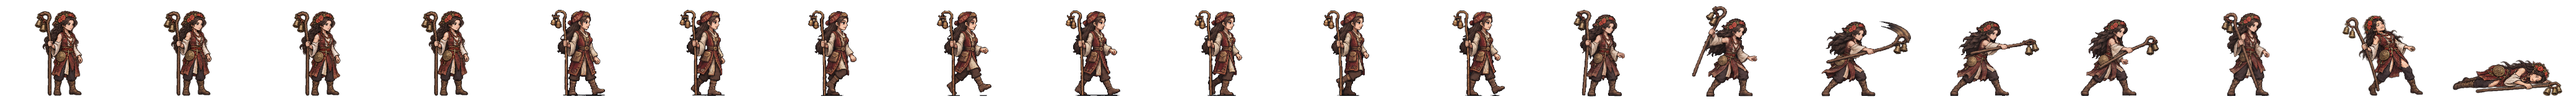
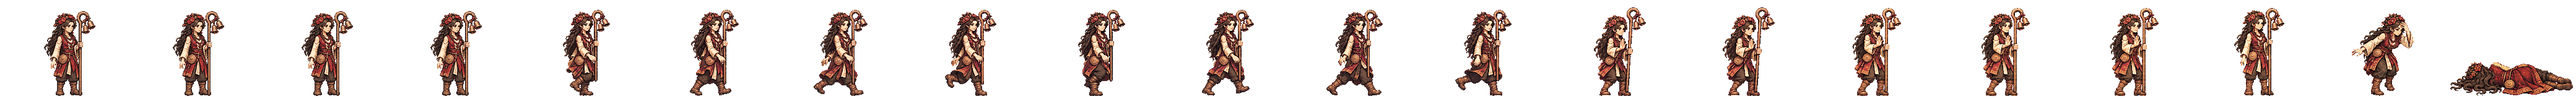
탐라 한라 새 띠: 갈고리 방울 지팡이 걷기·시전·방울 흔들기·맞음·쓰러짐 + 인수인계 「무녀 묶음(밤)」 (걷기 합격)
Claude-Session: https://claude.ai/code/session_01TRiuN7s6aDfSnaHxrkctmU

Changed region(s): [[0.0, 0.0625, 1.0, 0.9688]]

diff --git a/src/realm/data/spritePx.ts b/src/realm/data/spritePx.ts
@@ -1,3 +1,3 @@
 /** public/realm/anim-px/manifest.json 의 사본 — tools/sprite-normalize.mjs 가 만든다 (손으로 고치지 말 것). 칸 [가로, 세로] · feet = 발 줄(칸 위에서 y) · bodyPx = 서 있는 몸 키 */
 import { expandManifest } from './sprite-manifest.ts'
-export const SPRITE_PX: Readonly<Record<string, { readonly cell: readonly [number, number]; readonly feet: number; readonly bodyPx: number; readonly kind: 'general' | 'soldier' | 'folk' | 'crowd'; readonly cells: number }>> = expandManifest<{ readonly cell: readonly [number, number]; readonly feet: number; readonly bodyPx: number; readonly kind: 'general' | 'soldier' | 'folk' | 'crowd'; readonly cells: number }>([{"cell":[166,128],"feet":126,"bodyPx":124,"kind":"soldier","cells":20},{"cell":[116,128],"feet":126,"bodyPx":117,"kind":"soldier","cells":20},{"cell":[127,128],"feet":126,"bodyPx":116,"kind":"soldier","cells":20},{"cell":[269,128],"feet":126,"bodyPx":126,"kind":"soldier","cells":20},{"cell":[503,128],"feet":126,"bodyPx":127,"kind":"soldier","cells":20},{"cell":[614,128],"feet":126,"bodyPx":126,"kind":"soldier","cells":20},{"cell":[200,160],"feet":156,"bodyPx":138,"kind":"general","cells":20},{"cell":[208,160],"feet":155,"bodyPx":138,"kind":"general","cells":20},{"cell":[208,160],"feet":154,"bodyPx":138,"kind":"general","cells":20},{"cell":[304,160],"feet":155,"bodyPx":135,"kind":"general","cells":20},{"cell":[184,160],"feet":156,"bodyPx":138,"kind":"general","cells":20},{"cell":[208,160],"feet":154,"bodyPx":136,"kind":"general","cells":20},{"cell":[232,160],"feet":156,"bodyPx":138,"kind":"general","cells":20},{"cell":[208,160],"feet":156,"bodyPx":138,"kind":"general","cells":20},{"cell":[168,160],"feet":156,"bodyPx":124,"kind":"general","cells":20},{"cell":[216,160],"feet":156,"bodyPx":130,"kind":"general","cells":20},{"cell":[200,160],"feet":156,"bodyPx":116,"kind":"general","cells":20},{"cell":[192,160],"feet":156,"bodyPx":138,"kind":"general","cells":20},{"cell":[208,160],"feet":154,"bodyPx":135,"kind":"general","cells":20},{"cell":[280,160],"feet":156,"bodyPx":138,"kind":"general","cells":20},{"cell":[232,160],"feet":156,"bodyPx":134,"kind":"general","cells":20},{"cell":[144,160],"feet":156,"bodyPx":70,"kind":"general","cells":20},{"cell":[208,160],"feet":156,"bodyPx":70,"kind":"general","cells":20},{"cell":[192,160],"feet":156,"bodyPx":70,"kind":"general","cells":20},{"cell":[240,160],"feet":155,"bodyPx":138,"kind":"general","cells":20},{"cell":[160,160],"feet":156,"bodyPx":135,"kind":"general","cells":20},{"cell":[192,160],"feet":156,"bodyPx":128,"kind":"general","cells":20},{"cell":[224,160],"feet":155,"bodyPx":138,"kind":"general","cells":20},{"cell":[216,160],"feet":156,"bodyPx":138,"kind":"general","cells":20},{"cell":[208,160],"feet":156,"bodyPx":134,"kind":"general","cells":20},{"cell":[208,160],"feet":154,"bodyPx":130,"kind":"general","cells":20},{"cell":[248,160],"feet":156,"bodyPx":138,"kind":"general","cells":20},{"cell":[248,160],"feet":155,"bodyPx":138,"kind":"general","cells":20},{"cell":[192,160],"feet":155,"bodyPx":138,"kind":"general","cells":20},{"cell":[192,160],"feet":156,"bodyPx":124,"kind":"general","cells":20},{"cell":[208,160],"feet":154,"bodyPx":131,"kind":"general","cells":20},{"cell":[256,160],"feet":156,"bodyPx":138,"kind":"general","cells":20},{"cell":[240,160],"feet":156,"bodyPx":138,"kind":"general","cells":20},{"cell":[232,160],"feet":156,"bodyPx":139,"kind":"general","cells":20},{"cell":[232,160],"feet":156,"bodyPx":73,"kind":"general","cells":20},{"cell":[208,160],"feet":154,"bodyPx":137,"kind":"general","cells":20},{"cell":[264,160],"feet":156,"bodyPx":138,"kind":"general","cells":20},{"cell":[224,160],"feet":156,"bodyPx":138,"kind":"general","cells":20},{"cell":[224,160],"feet":156,"bodyPx":128,"kind":"general","cells":20},{"cell":[176,160],"feet":156,"bodyPx":129,"kind":"general","cells":20},{"cell":[208,160],"feet":154,"bodyPx":139,"kind":"general","cells":20},{"cell":[232,160],"feet":155,"bodyPx":138,"kind":"general","cells":20},{"cell":[208,160],"feet":156,"bodyPx":132,"kind":"general","cells":20},{"cell":[184,160],"feet":156,"bodyPx":122,"kind":"general","cells":20},{"cell":[280,160],"feet":155,"bodyPx":133,"kind":"general","cells":20},{"cell":[176,160],"feet":156,"bodyPx":70,"kind":"general","cells":20},{"cell":[186,128],"feet":126,"bodyPx":127,"kind":"soldier","cells":20},{"cell":[298,128],"feet":126,"bodyPx":126,"kind":"soldier","cells":20},{"cell":[82,128],"feet":126,"bodyPx":114,"kind":"folk","cells":8},{"cell":[134,128],"feet":126,"bodyPx":119,"kind":"soldier","cells":20},{"cell":[380,128],"feet":126,"bodyPx":124,"kind":"soldier","cells":20},{"cell":[114,128],"feet":126,"bodyPx":115,"kind":"soldier","cells":20},{"cell":[122,128],"feet":126,"bodyPx":114,"kind":"soldier","cells":20},{"cell":[254,128],"feet":126,"bodyPx":128,"kind":"soldier","cells":20},{"cell":[438,128],"feet":126,"bodyPx":126,"kind":"soldier","cells":20},{"cell":[88,128],"feet":126,"bodyPx":113,"kind":"folk","cells":8},{"cell":[100,128],"feet":126,"bodyPx":115,"kind":"folk","cells":8},{"cell":[108,128],"feet":126,"bodyPx":115,"kind":"folk","cells":8},{"cell":[63,128],"feet":126,"bodyPx":113,"kind":"folk","cells":8},{"cell":[69,96],"feet":96,"bodyPx":96,"kind":"crowd","cells":1},{"cell":[54,96],"feet":96,"bodyPx":96,"kind":"crowd","cells":1},{"cell":[47,96],"feet":96,"bodyPx":96,"kind":"crowd","cells":1},{"cell":[49,96],"feet":96,"bodyPx":96,"kind":"crowd","cells":1},{"cell":[57,96],"feet":96,"bodyPx":96,"kind":"crowd","cells":1},{"cell":[55,96],"feet":96,"bodyPx":96,"kind":"crowd","cells":1},{"cell":[45,96],"feet":96,"bodyPx":96,"kind":"crowd","cells":1},{"cell":[53,96],"feet":96,"bodyPx":96,"kind":"crowd","cells":1},{"cell":[64,96],"feet":96,"bodyPx":96,"kind":"crowd","cells":1},{"cell":[184,160],"feet":156,"bodyPx":124,"kind":"general","cells":20},{"cell":[208,160],"feet":154,"bodyPx":134,"kind":"general","cells":20},{"cell":[224,160],"feet":156,"bodyPx":133,"kind":"general","cells":20},{"cell":[192,160],"feet":156,"bodyPx":135,"kind":"general","cells":20},{"cell":[184,160],"feet":156,"bodyPx":137,"kind":"general","cells":20},{"cell":[176,160],"feet":156,"bodyPx":130,"kind":"general","cells":20},{"cell":[216,160],"feet":156,"bodyPx":134,"kind":"general","cells":20},{"cell":[216,160],"feet":156,"bodyPx":132,"kind":"general","cells":20},{"cell":[288,160],"feet":156,"bodyPx":138,"kind":"general","cells":20},{"cell":[192,160],"feet":156,"bodyPx":118,"kind":"general","cells":20},{"cell":[208,160],"feet":154,"bodyPx":132,"kind":"general","cells":20},{"cell":[208,160],"feet":154,"bodyPx":128,"kind":"general","cells":20},{"cell":[240,160],"feet":156,"bodyPx":128,"kind":"general","cells":20},{"cell":[184,160],"feet":156,"bodyPx":132,"kind":"general","cells":20},{"cell":[208,160],"feet":156,"bodyPx":123,"kind":"general","cells":20},{"cell":[176,160],"feet":156,"bodyPx":116,"kind":"general","cells":20},{"cell":[272,160],"feet":156,"bodyPx":138,"kind":"general","cells":20},{"cell":[176,160],"feet":156,"bodyPx":138,"kind":"general","cells":20},{"cell":[176,160],"feet":156,"bodyPx":122,"kind":"general","cells":20},{"cell":[232,160],"feet":156,"bodyPx":127,"kind":"general","cells":20},{"cell":[184,160],"feet":156,"bodyPx":134,"kind":"general","cells":20},{"cell":[168,160],"feet":156,"bodyPx":138,"kind":"general","cells":20},{"cell":[176,160],"feet":156,"bodyPx":137,"kind":"general","cells":20},{"cell":[184,160],"feet":156,"bodyPx":133,"kind":"general","cells":20}],[["axe",0],["bandit-chief",1],["bandit-club",2],["boat",3],["bow",4],["crossbow",5],["gen-adogan",6],["gen-alpyeong",7],["gen-ara",8],["gen-areum",8],["gen-aryeong",9],["gen-bakdal",8],["gen-baram",8],["gen-bdanbi",10],["gen-beom",11],["gen-beombal",8],["gen-beomi",8],["gen-bira",12],["gen-biryu",13],["gen-budeul",8],["gen-byeol",8],["gen-daemusin",14],["gen-daeso",15],["gen-dallae2",10],["gen-dalli",8],["gen-damul",16],["gen-danbi",8],["gen-dangung",17],["gen-darae",18],["gen-dokmudeom",8],["gen-duman",19],["gen-eomni",8],["gen-eureum",20],["gen-g-bow",21],["gen-g-spear",22],["gen-g-sword",23],["gen-gaennae",8],["gen-gamsil",24],["gen-gaon",25],["gen-geota",13],["gen-geumbawi",10],["gen-geumha",26],["gen-goeun",13],["gen-gom",27],["gen-gomok",13],["gen-gureum",8],["gen-guryema",17],["gen-gwaeyu",12],["gen-haebi",8],["gen-haedal",6],["gen-haesol",8],["gen-halla",7],["gen-heo",8],["gen-hneoul",10],["gen-hogong",28],["gen-hojin",13],["gen-horselord",29],["gen-hwalmi",30],["gen-hyeokgeose",17],["gen-hyeopbo",6],["gen-irang",8],["gen-jibaekho",31],["gen-jinha",32],["gen-jita",33],["gen-jumong",34],["gen-keundol",7],["gen-maehwa",35],["gen-maenun",17],["gen-malgalgi",36],["gen-mari",37],["gen-maro",31],["gen-maryeo",13],["gen-mdallae",38],["gen-mir",6],["gen-mount",39],["gen-mulbeom",40],["gen-mulsae",40],["gen-musoe",28],["gen-noeul",8],["gen-nuri",41],["gen-ocheongan",42],["gen-odi",8],["gen-odogan",6],["gen-ogan",17],["gen-oi",43],["gen-olddaeso",20],["gen-onjo",44],["gen-pidogan",13],["gen-sagong",45],["gen-sdallae",6],["gen-sincheongan",8],["gen-singwigan",28],["gen-sinneoul",8],["gen-sobeol",46],["gen-soebi",6],["gen-soebo",47],["gen-soenun",45],["gen-sogeumbi",40],["gen-songbi",42],["gen-songyang",48],["gen-sori",8],["gen-soseono",49],["gen-suro",17],["gen-tahae",6],["gen-tneoul",8],["gen-w-bow",21],["gen-w-spear",50],["gen-waechief",13],["gen-wan",28],["gen-yeodogan",13],["gen-yucheongan",13],["gen-yusugan",31],["horse",51],["marine",52],["migrant",53],["militia",54],["pike",55],["pirate-captain",56],["pirate-sword",57],["shield",58],["spear",59],["villager-builder",60],["villager-farmer",61],["villager-porter",62],["villager-woman",63],["crowd-b1",64],["crowd-b2",65],["crowd-b3",66],["crowd-b4",67],["crowd-b5",68],["crowd-b6",69],["crowd-f1",64],["crowd-f2",69],["crowd-f3",70],["crowd-f4",71],["crowd-f5",64],["crowd-f6",72],["gen-dalbit",13],["gen-base-g-07-drunk-warrior",17],["gen-base-g-40-anya-adan",13],["gen-base-w-13-young-archer",8],["gen-base-g-03-sea-trader",37],["gen-base-w-10-pirate-captain",45],["gen-base-w-64-miri-dallae",45],["gen-base-g-41-goja-bau",37],["gen-base-g-42-dokro-garam",41],["gen-base-g-09-farmer-conscript",28],["gen-base-w-02-goguryeo-lady",28],["gen-base-w-17-mahan-pearl-diver",8],["gen-base-g-17-saro-isageum",47],["gen-base-g-18-daegaya-king",73],["gen-base-g-35-dabeol-dalgu",13],["gen-base-g-19-sabeol-veteran",28],["gen-base-w-23-usisan-whale-queen",8],["gen-base-g-36-gammun-gamdol",42],["gen-base-g-20-samul-sea-lord",36],["gen-base-g-37-eumjeup-jeup",10],["gen-base-g-38-chopal-palmae",17],["gen-base-w-75-daegaya-soemoe",17],["gen-base-g-45-dabeol-deulgae",10],["gen-base-g-04-jinhan-giant",13],["gen-base-g-08-veteran",13],["gen-base-w-18-jinhan-salt-widow",8],["gen-base-w-12-court-dancer",74],["gen-base-w-83-gyeonji-beodeul",75],["gen-base-w-05-baekje-queen",76],["gen-base-w-21-baekje-court-dancer",10],["gen-base-g-01-master-smith",77],["gen-base-g-93-jomun-solgae",78],["gen-base-g-57-bihwa-neup",37],["gen-base-w-72-eumjeup-beol",8],["gen-base-w-102-garak-dana",45],["gen-base-g-68-baekje-onnuri",13],["gen-base-w-27-mokji-jinha",6],["gen-base-g-22-ungcheon-gomnae",6],["gen-base-g-23-sangdang-soedal",13],["gen-base-g-24-wansan-onsan",6],["gen-base-g-25-balla-keunmoe",28],["gen-base-g-61-heomcheuk-bawi",28],["gen-base-g-88-wander-soeul",42],["gen-base-w-14-feast-spy",8],["gen-base-g-12-silla-youth",79],["gen-base-w-08-mahan-warrior",8],["gen-base-g-62-beonye-hanul",37],["gen-base-g-63-heomcheuk-beogeum",13],["gen-base-g-84-wander-seoneul",13],["gen-base-w-50-siljik-mulga",28],["gen-base-g-46-uga-nureongso",28],["gen-base-w-80-usan-gangchi",45],["gen-base-g-47-guga-sanyanggae",28],["gen-base-w-76-gampyeong-baetsagong",8],["gen-base-g-05-mahan-chieftain",80],["gen-base-g-58-usan-uhae",13],["gen-base-g-27-maek-maekdol",13],["gen-base-w-53-hwanna-gabi",45],["gen-base-w-29-golpo-janmul",31],["gen-base-g-53-baekje-haeru",6],["gen-base-w-71-yeonna-neoul",8],["gen-base-w-79-yangmaek-solmae",8],["gen-base-w-34-chopal-deulme",8],["gen-base-g-44-maga-malgup",81],["gen-base-w-31-dabeol-dalbit",45],["gen-base-g-51-biryuna-mulgyeol",42],["gen-base-g-48-gwanna-musoe",13],["gen-base-g-32-uga-sodu",12],["gen-base-g-49-goguryeo-sona",82],["gen-base-g-30-gwanna-soemoe",42],["gen-base-g-52-tamna-oreum",10],["gen-base-g-29-yeonna-myeongsol",34],["gen-base-w-56-dongokjeo-sogeum",74],["gen-base-g-54-mokji-mahan",12],["gen-base-g-33-jeoga-metdol",17],["gen-base-w-36-baekje-maena",8],["gen-base-w-38-sangdang-bulmae",6],["gen-base-w-39-gosaburi-galmae",8],["gen-base-w-40-mujin-munui",83],["gen-base-w-41-hwanna-beodeul",84],["gen-base-w-43-uga-nuri",36],["gen-base-w-45-tamna-oreumbi",10],["gen-base-g-60-golbeol-golgae",10],["gen-base-g-61-apdok-ap",28],["gen-base-g-62-gammun-gamnamu",6],["gen-base-g-63-chopal-yeoul",31],["gen-base-g-64-michuhol-sogeumkkun",37],["gen-base-g-65-sangdang-soemangchi",42],["gen-base-g-66-geonma-malbalgup",85],["gen-base-g-67-gosaburi-buri",86],["gen-base-g-68-mujin-bitgoeul",10],["gen-base-g-69-goryong-yong",42],["gen-base-g-70-siljik-pado",37],["gen-base-w-81-byeokjin-byeolbit",8],["gen-base-w-46-geonma-maru",8],["gen-base-w-48-mujin-mudeung",8],["gen-base-g-26-gampyeong-gaetbeol",12],["gen-base-g-60-eupcha-hangyeol",87],["gen-base-g-15-shaman-man",28],["gen-base-g-85-wander-ure",31],["gen-base-g-43-hwanna-amnok",13],["gen-base-g-50-bullae-gwaha",76],["gen-base-g-55-saro-bakdal",13],["gen-base-g-56-haseulla-gwahama",6],["gen-base-w-06-buyeo-huntress",40],["gen-base-w-22-dongye-tiger-huntress",8],["gen-base-w-25-bihwa-priestess",8],["gen-base-w-24-apdok-queen",10],["gen-base-w-61-iseo-sinae",13],["gen-base-w-26-iseo-tomboy-general",8],["gen-base-g-59-yangmaek-maekson",88],["gen-aw1-haebi",42],["gen-aw1-soseono",89],["gen-aw1-gamsil",10],["gen-aw1-mir",90],["gen-aw1-dangung",6],["gen-aw1-ara",42],["gen-aw1-jumong",91],["gen-aw1-onjo",92],["gen-aw1-base-w-83-gyeonji-beodeul",17],["gen-aw1-heo",41],["gen-aw1-base-g-38-chopal-palmae",6],["gen-aw1-base-w-25-bihwa-priestess",93],["gen-aw1-sori",94],["gen-aw1-gomok",6],["gen-aw1-irang",17],["gen-aw1-budeul",94],["gen-aw1-gom",37],["gen-aw1-sdallae",6],["gen-aw1-base-w-13-young-archer",6],["gen-aw1-base-w-36-baekje-maena",95],["gen-aw1-base-g-09-farmer-conscript",41],["gen-aw1-base-w-02-goguryeo-lady",96],["gen-aw1-haedal",10],["gen-aw1-hogong",6],["gen-aw1-maehwa",90],["gen-aw1-base-w-06-buyeo-huntress",12],["gen-aw1-base-w-08-mahan-warrior",42],["gen-aw1-base-w-29-golpo-janmul",42],["gen-aw1-base-w-31-dabeol-dalbit",17],["gen-aw1-base-w-38-sangdang-bulmae",94],["gen-aw1-bira",28],["gen-aw1-base-w-53-hwanna-gabi",94],["gen-aw1-base-w-56-dongokjeo-sogeum",90],["gen-aw1-base-w-72-eumjeup-beol",17],["gen-aw1-bdanbi",94],["gen-aw1-beom",10],["gen-aw1-beombal",10],["gen-aw1-byeol",17],["gen-aw1-dalli",90],["gen-aw1-malgalgi",31],["gen-aw1-sincheongan",28]])
+export const SPRITE_PX: Readonly<Record<string, { readonly cell: readonly [number, number]; readonly feet: number; readonly bodyPx: number; readonly kind: 'general' | 'soldier' | 'folk' | 'crowd'; readonly cells: number }>> = expandManifest<{ readonly cell: readonly [number, number]; readonly feet: number; readonly bodyPx: number; readonly kind: 'general' | 'soldier' | 'folk' | 'crowd'; readonly cells: number }>([{"cell":[166,128],"feet":126,"bodyPx":124,"kind":"soldier","cells":20},{"cell":[116,128],"feet":126,"bodyPx":117,"kind":"soldier","cells":20},{"cell":[127,128],"feet":126,"bodyPx":116,"kind":"soldier","cells":20},{"cell":[269,128],"feet":126,"bodyPx":126,"kind":"soldier","cells":20},{"cell":[503,128],"feet":126,"bodyPx":127,"kind":"soldier","cells":20},{"cell":[614,128],"feet":126,"bodyPx":126,"kind":"soldier","cells":20},{"cell":[200,160],"feet":156,"bodyPx":138,"kind":"general","cells":20},{"cell":[208,160],"feet":155,"bodyPx":138,"kind":"general","cells":20},{"cell":[208,160],"feet":154,"bodyPx":138,"kind":"general","cells":20},{"cell":[304,160],"feet":155,"bodyPx":135,"kind":"general","cells":20},{"cell":[184,160],"feet":156,"bodyPx":138,"kind":"general","cells":20},{"cell":[208,160],"feet":154,"bodyPx":136,"kind":"general","cells":20},{"cell":[232,160],"feet":156,"bodyPx":138,"kind":"general","cells":20},{"cell":[208,160],"feet":156,"bodyPx":138,"kind":"general","cells":20},{"cell":[168,160],"feet":156,"bodyPx":124,"kind":"general","cells":20},{"cell":[216,160],"feet":156,"bodyPx":130,"kind":"general","cells":20},{"cell":[200,160],"feet":156,"bodyPx":116,"kind":"general","cells":20},{"cell":[192,160],"feet":156,"bodyPx":138,"kind":"general","cells":20},{"cell":[208,160],"feet":154,"bodyPx":135,"kind":"general","cells":20},{"cell":[280,160],"feet":156,"bodyPx":138,"kind":"general","cells":20},{"cell":[232,160],"feet":156,"bodyPx":134,"kind":"general","cells":20},{"cell":[144,160],"feet":156,"bodyPx":70,"kind":"general","cells":20},{"cell":[208,160],"feet":156,"bodyPx":70,"kind":"general","cells":20},{"cell":[192,160],"feet":156,"bodyPx":70,"kind":"general","cells":20},{"cell":[240,160],"feet":155,"bodyPx":138,"kind":"general","cells":20},{"cell":[160,160],"feet":156,"bodyPx":135,"kind":"general","cells":20},{"cell":[192,160],"feet":156,"bodyPx":128,"kind":"general","cells":20},{"cell":[224,160],"feet":155,"bodyPx":138,"kind":"general","cells":20},{"cell":[208,160],"feet":154,"bodyPx":137,"kind":"general","cells":20},{"cell":[216,160],"feet":156,"bodyPx":138,"kind":"general","cells":20},{"cell":[208,160],"feet":156,"bodyPx":134,"kind":"general","cells":20},{"cell":[208,160],"feet":154,"bodyPx":130,"kind":"general","cells":20},{"cell":[248,160],"feet":156,"bodyPx":138,"kind":"general","cells":20},{"cell":[248,160],"feet":155,"bodyPx":138,"kind":"general","cells":20},{"cell":[192,160],"feet":155,"bodyPx":138,"kind":"general","cells":20},{"cell":[192,160],"feet":156,"bodyPx":124,"kind":"general","cells":20},{"cell":[208,160],"feet":154,"bodyPx":131,"kind":"general","cells":20},{"cell":[256,160],"feet":156,"bodyPx":138,"kind":"general","cells":20},{"cell":[240,160],"feet":156,"bodyPx":138,"kind":"general","cells":20},{"cell":[232,160],"feet":156,"bodyPx":139,"kind":"general","cells":20},{"cell":[232,160],"feet":156,"bodyPx":73,"kind":"general","cells":20},{"cell":[264,160],"feet":156,"bodyPx":138,"kind":"general","cells":20},{"cell":[224,160],"feet":156,"bodyPx":138,"kind":"general","cells":20},{"cell":[224,160],"feet":156,"bodyPx":128,"kind":"general","cells":20},{"cell":[176,160],"feet":156,"bodyPx":129,"kind":"general","cells":20},{"cell":[208,160],"feet":154,"bodyPx":139,"kind":"general","cells":20},{"cell":[232,160],"feet":155,"bodyPx":138,"kind":"general","cells":20},{"cell":[208,160],"feet":156,"bodyPx":132,"kind":"general","cells":20},{"cell":[184,160],"feet":156,"bodyPx":122,"kind":"general","cells":20},{"cell":[280,160],"feet":155,"bodyPx":133,"kind":"general","cells":20},{"cell":[176,160],"feet":156,"bodyPx":70,"kind":"general","cells":20},{"cell":[186,128],"feet":126,"bodyPx":127,"kind":"soldier","cells":20},{"cell":[298,128],"feet":126,"bodyPx":126,"kind":"soldier","cells":20},{"cell":[82,128],"feet":126,"bodyPx":114,"kind":"folk","cells":8},{"cell":[134,128],"feet":126,"bodyPx":119,"kind":"soldier","cells":20},{"cell":[380,128],"feet":126,"bodyPx":124,"kind":"soldier","cells":20},{"cell":[114,128],"feet":126,"bodyPx":115,"kind":"soldier","cells":20},{"cell":[122,128],"feet":126,"bodyPx":114,"kind":"soldier","cells":20},{"cell":[254,128],"feet":126,"bodyPx":128,"kind":"soldier","cells":20},{"cell":[438,128],"feet":126,"bodyPx":126,"kind":"soldier","cells":20},{"cell":[88,128],"feet":126,"bodyPx":113,"kind":"folk","cells":8},{"cell":[100,128],"feet":126,"bodyPx":115,"kind":"folk","cells":8},{"cell":[108,128],"feet":126,"bodyPx":115,"kind":"folk","cells":8},{"cell":[63,128],"feet":126,"bodyPx":113,"kind":"folk","cells":8},{"cell":[69,96],"feet":96,"bodyPx":96,"kind":"crowd","cells":1},{"cell":[54,96],"feet":96,"bodyPx":96,"kind":"crowd","cells":1},{"cell":[47,96],"feet":96,"bodyPx":96,"kind":"crowd","cells":1},{"cell":[49,96],"feet":96,"bodyPx":96,"kind":"crowd","cells":1},{"cell":[57,96],"feet":96,"bodyPx":96,"kind":"crowd","cells":1},{"cell":[55,96],"feet":96,"bodyPx":96,"kind":"crowd","cells":1},{"cell":[45,96],"feet":96,"bodyPx":96,"kind":"crowd","cells":1},{"cell":[53,96],"feet":96,"bodyPx":96,"kind":"crowd","cells":1},{"cell":[64,96],"feet":96,"bodyPx":96,"kind":"crowd","cells":1},{"cell":[184,160],"feet":156,"bodyPx":124,"kind":"general","cells":20},{"cell":[208,160],"feet":154,"bodyPx":134,"kind":"general","cells":20},{"cell":[224,160],"feet":156,"bodyPx":133,"kind":"general","cells":20},{"cell":[192,160],"feet":156,"bodyPx":135,"kind":"general","cells":20},{"cell":[184,160],"feet":156,"bodyPx":137,"kind":"general","cells":20},{"cell":[176,160],"feet":156,"bodyPx":130,"kind":"general","cells":20},{"cell":[216,160],"feet":156,"bodyPx":134,"kind":"general","cells":20},{"cell":[216,160],"feet":156,"bodyPx":132,"kind":"general","cells":20},{"cell":[288,160],"feet":156,"bodyPx":138,"kind":"general","cells":20},{"cell":[192,160],"feet":156,"bodyPx":118,"kind":"general","cells":20},{"cell":[208,160],"feet":154,"bodyPx":132,"kind":"general","cells":20},{"cell":[208,160],"feet":154,"bodyPx":128,"kind":"general","cells":20},{"cell":[240,160],"feet":156,"bodyPx":128,"kind":"general","cells":20},{"cell":[184,160],"feet":156,"bodyPx":132,"kind":"general","cells":20},{"cell":[208,160],"feet":156,"bodyPx":123,"kind":"general","cells":20},{"cell":[176,160],"feet":156,"bodyPx":116,"kind":"general","cells":20},{"cell":[272,160],"feet":156,"bodyPx":138,"kind":"general","cells":20},{"cell":[176,160],"feet":156,"bodyPx":138,"kind":"general","cells":20},{"cell":[176,160],"feet":156,"bodyPx":122,"kind":"general","cells":20},{"cell":[232,160],"feet":156,"bodyPx":127,"kind":"general","cells":20},{"cell":[184,160],"feet":156,"bodyPx":134,"kind":"general","cells":20},{"cell":[168,160],"feet":156,"bodyPx":138,"kind":"general","cells":20},{"cell":[176,160],"feet":156,"bodyPx":137,"kind":"general","cells":20},{"cell":[184,160],"feet":156,"bodyPx":133,"kind":"general","cells":20}],[["axe",0],["bandit-chief",1],["bandit-club",2],["boat",3],["bow",4],["crossbow",5],["gen-adogan",6],["gen-alpyeong",7],["gen-ara",8],["gen-areum",8],["gen-aryeong",9],["gen-bakdal",8],["gen-baram",8],["gen-bdanbi",10],["gen-beom",11],["gen-beombal",8],["gen-beomi",8],["gen-bira",12],["gen-biryu",13],["gen-budeul",8],["gen-byeol",8],["gen-daemusin",14],["gen-daeso",15],["gen-dallae2",10],["gen-dalli",8],["gen-damul",16],["gen-danbi",8],["gen-dangung",17],["gen-darae",18],["gen-dokmudeom",8],["gen-duman",19],["gen-eomni",8],["gen-eureum",20],["gen-g-bow",21],["gen-g-spear",22],["gen-g-sword",23],["gen-gaennae",8],["gen-gamsil",24],["gen-gaon",25],["gen-geota",13],["gen-geumbawi",10],["gen-geumha",26],["gen-goeun",13],["gen-gom",27],["gen-gomok",13],["gen-gureum",8],["gen-guryema",17],["gen-gwaeyu",12],["gen-haebi",8],["gen-haedal",6],["gen-haesol",8],["gen-halla",28],["gen-heo",8],["gen-hneoul",10],["gen-hogong",29],["gen-hojin",13],["gen-horselord",30],["gen-hwalmi",31],["gen-hyeokgeose",17],["gen-hyeopbo",6],["gen-irang",8],["gen-jibaekho",32],["gen-jinha",33],["gen-jita",34],["gen-jumong",35],["gen-keundol",7],["gen-maehwa",36],["gen-maenun",17],["gen-malgalgi",37],["gen-mari",38],["gen-maro",32],["gen-maryeo",13],["gen-mdallae",39],["gen-mir",6],["gen-mount",40],["gen-mulbeom",28],["gen-mulsae",28],["gen-musoe",29],["gen-noeul",8],["gen-nuri",41],["gen-ocheongan",42],["gen-odi",8],["gen-odogan",6],["gen-ogan",17],["gen-oi",43],["gen-olddaeso",20],["gen-onjo",44],["gen-pidogan",13],["gen-sagong",45],["gen-sdallae",6],["gen-sincheongan",8],["gen-singwigan",29],["gen-sinneoul",8],["gen-sobeol",46],["gen-soebi",6],["gen-soebo",47],["gen-soenun",45],["gen-sogeumbi",28],["gen-songbi",42],["gen-songyang",48],["gen-sori",8],["gen-soseono",49],["gen-suro",17],["gen-tahae",6],["gen-tneoul",8],["gen-w-bow",21],["gen-w-spear",50],["gen-waechief",13],["gen-wan",29],["gen-yeodogan",13],["gen-yucheongan",13],["gen-yusugan",32],["horse",51],["marine",52],["migrant",53],["militia",54],["pike",55],["pirate-captain",56],["pirate-sword",57],["shield",58],["spear",59],["villager-builder",60],["villager-farmer",61],["villager-porter",62],["villager-woman",63],["crowd-b1",64],["crowd-b2",65],["crowd-b3",66],["crowd-b4",67],["crowd-b5",68],["crowd-b6",69],["crowd-f1",64],["crowd-f2",69],["crowd-f3",70],["crowd-f4",71],["crowd-f5",64],["crowd-f6",72],["gen-dalbit",13],["gen-base-g-07-drunk-warrior",17],["gen-base-g-40-anya-adan",13],["gen-base-w-13-young-archer",8],["gen-base-g-03-sea-trader",38],["gen-base-w-10-pirate-captain",45],["gen-base-w-64-miri-dallae",45],["gen-base-g-41-goja-bau",38],["gen-base-g-42-dokro-garam",41],["gen-base-g-09-farmer-conscript",29],["gen-base-w-02-goguryeo-lady",29],["gen-base-w-17-mahan-pearl-diver",8],["gen-base-g-17-saro-isageum",47],["gen-base-g-18-daegaya-king",73],["gen-base-g-35-dabeol-dalgu",13],["gen-base-g-19-sabeol-veteran",29],["gen-base-w-23-usisan-whale-queen",8],["gen-base-g-36-gammun-gamdol",42],["gen-base-g-20-samul-sea-lord",37],["gen-base-g-37-eumjeup-jeup",10],["gen-base-g-38-chopal-palmae",17],["gen-base-w-75-daegaya-soemoe",17],["gen-base-g-45-dabeol-deulgae",10],["gen-base-g-04-jinhan-giant",13],["gen-base-g-08-veteran",13],["gen-base-w-18-jinhan-salt-widow",8],["gen-base-w-12-court-dancer",74],["gen-base-w-83-gyeonji-beodeul",75],["gen-base-w-05-baekje-queen",76],["gen-base-w-21-baekje-court-dancer",10],["gen-base-g-01-master-smith",77],["gen-base-g-93-jomun-solgae",78],["gen-base-g-57-bihwa-neup",38],["gen-base-w-72-eumjeup-beol",8],["gen-base-w-102-garak-dana",45],["gen-base-g-68-baekje-onnuri",13],["gen-base-w-27-mokji-jinha",6],["gen-base-g-22-ungcheon-gomnae",6],["gen-base-g-23-sangdang-soedal",13],["gen-base-g-24-wansan-onsan",6],["gen-base-g-25-balla-keunmoe",29],["gen-base-g-61-heomcheuk-bawi",29],["gen-base-g-88-wander-soeul",42],["gen-base-w-14-feast-spy",8],["gen-base-g-12-silla-youth",79],["gen-base-w-08-mahan-warrior",8],["gen-base-g-62-beonye-hanul",38],["gen-base-g-63-heomcheuk-beogeum",13],["gen-base-g-84-wander-seoneul",13],["gen-base-w-50-siljik-mulga",29],["gen-base-g-46-uga-nureongso",29],["gen-base-w-80-usan-gangchi",45],["gen-base-g-47-guga-sanyanggae",29],["gen-base-w-76-gampyeong-baetsagong",8],["gen-base-g-05-mahan-chieftain",80],["gen-base-g-58-usan-uhae",13],["gen-base-g-27-maek-maekdol",13],["gen-base-w-53-hwanna-gabi",45],["gen-base-w-29-golpo-janmul",32],["gen-base-g-53-baekje-haeru",6],["gen-base-w-71-yeonna-neoul",8],["gen-base-w-79-yangmaek-solmae",8],["gen-base-w-34-chopal-deulme",8],["gen-base-g-44-maga-malgup",81],["gen-base-w-31-dabeol-dalbit",45],["gen-base-g-51-biryuna-mulgyeol",42],["gen-base-g-48-gwanna-musoe",13],["gen-base-g-32-uga-sodu",12],["gen-base-g-49-goguryeo-sona",82],["gen-base-g-30-gwanna-soemoe",42],["gen-base-g-52-tamna-oreum",10],["gen-base-g-29-yeonna-myeongsol",35],["gen-base-w-56-dongokjeo-sogeum",74],["gen-base-g-54-mokji-mahan",12],["gen-base-g-33-jeoga-metdol",17],["gen-base-w-36-baekje-maena",8],["gen-base-w-38-sangdang-bulmae",6],["gen-base-w-39-gosaburi-galmae",8],["gen-base-w-40-mujin-munui",83],["gen-base-w-41-hwanna-beodeul",84],["gen-base-w-43-uga-nuri",37],["gen-base-w-45-tamna-oreumbi",10],["gen-base-g-60-golbeol-golgae",10],["gen-base-g-61-apdok-ap",29],["gen-base-g-62-gammun-gamnamu",6],["gen-base-g-63-chopal-yeoul",32],["gen-base-g-64-michuhol-sogeumkkun",38],["gen-base-g-65-sangdang-soemangchi",42],["gen-base-g-66-geonma-malbalgup",85],["gen-base-g-67-gosaburi-buri",86],["gen-base-g-68-mujin-bitgoeul",10],["gen-base-g-69-goryong-yong",42],["gen-base-g-70-siljik-pado",38],["gen-base-w-81-byeokjin-byeolbit",8],["gen-base-w-46-geonma-maru",8],["gen-base-w-48-mujin-mudeung",8],["gen-base-g-26-gampyeong-gaetbeol",12],["gen-base-g-60-eupcha-hangyeol",87],["gen-base-g-15-shaman-man",29],["gen-base-g-85-wander-ure",32],["gen-base-g-43-hwanna-amnok",13],["gen-base-g-50-bullae-gwaha",76],["gen-base-g-55-saro-bakdal",13],["gen-base-g-56-haseulla-gwahama",6],["gen-base-w-06-buyeo-huntress",28],["gen-base-w-22-dongye-tiger-huntress",8],["gen-base-w-25-bihwa-priestess",8],["gen-base-w-24-apdok-queen",10],["gen-base-w-61-iseo-sinae",13],["gen-base-w-26-iseo-tomboy-general",8],["gen-base-g-59-yangmaek-maekson",88],["gen-aw1-haebi",42],["gen-aw1-soseono",89],["gen-aw1-gamsil",10],["gen-aw1-mir",90],["gen-aw1-dangung",6],["gen-aw1-ara",42],["gen-aw1-jumong",91],["gen-aw1-onjo",92],["gen-aw1-base-w-83-gyeonji-beodeul",17],["gen-aw1-heo",41],["gen-aw1-base-g-38-chopal-palmae",6],["gen-aw1-base-w-25-bihwa-priestess",93],["gen-aw1-sori",94],["gen-aw1-gomok",6],["gen-aw1-irang",17],["gen-aw1-budeul",94],["gen-aw1-gom",38],["gen-aw1-sdallae",6],["gen-aw1-base-w-13-young-archer",6],["gen-aw1-base-w-36-baekje-maena",95],["gen-aw1-base-g-09-farmer-conscript",41],["gen-aw1-base-w-02-goguryeo-lady",96],["gen-aw1-haedal",10],["gen-aw1-hogong",6],["gen-aw1-maehwa",90],["gen-aw1-base-w-06-buyeo-huntress",12],["gen-aw1-base-w-08-mahan-warrior",42],["gen-aw1-base-w-29-golpo-janmul",42],["gen-aw1-base-w-31-dabeol-dalbit",17],["gen-aw1-base-w-38-sangdang-bulmae",94],["gen-aw1-bira",29],["gen-aw1-base-w-53-hwanna-gabi",94],["gen-aw1-base-w-56-dongokjeo-sogeum",90],["gen-aw1-base-w-72-eumjeup-beol",17],["gen-aw1-bdanbi",94],["gen-aw1-beom",10],["gen-aw1-beombal",10],["gen-aw1-byeol",17],["gen-aw1-dalli",90],["gen-aw1-malgalgi",32],["gen-aw1-sincheongan",29]])

diff --git a/src/duel/view.ts b/src/duel/view.ts
@@ -100,7 +100,7 @@ const crowdFront = [1, 2, 3, 4, 5, 6].map((i) => img(`realm/duel/crowd/b${i}.png
 const crowdReady = (set: HTMLImageElement[]): boolean => set.every((im) => im.complete && im.naturalWidth > 0)
 const pxMode = cfg.px !== false && params.get('px') !== '0'
 /** 겨루기 전용 옛 띠(duel/sprites) 대신 열전과 같은 도트 띠(anim-px)를 쓰는 장수 — 두 판에서 같은 모습 · 서기 계획·쓰러지는 칸도 같다 (11-23 범 · 매화 · 달빛 · 11-24 해비 · 아룸) */
-const PX_DUEL: ReadonlySet<string> = new Set(['beom', 'maehwa', 'base-w-31-dabeol-dalbit', 'haebi', 'areum', 'base-w-13-young-archer', 'base-w-10-pirate-captain', 'base-w-17-mahan-pearl-diver', 'base-w-06-buyeo-huntress', 'base-w-64-miri-dallae', 'ara', 'base-w-22-dongye-tiger-huntress', 'noeul', 'sagong', 'sinneoul', 'heo', 'base-w-08-mahan-warrior', 'base-w-23-usisan-whale-queen', 'base-w-26-iseo-tomboy-general', 'base-w-72-eumjeup-beol', 'tneoul', 'odi', 'base-w-76-gampyeong-baetsagong', 'base-w-34-chopal-deulme', 'base-w-102-garak-dana', 'base-w-36-baekje-maena', 'base-w-56-dongokjeo-sogeum', 'budeul', 'base-w-53-hwanna-gabi', 'base-w-18-jinhan-salt-widow', 'beombal', 'irang', 'sogeumbi', 'baram', 'byeol', 'base-w-71-yeonna-neoul', 'base-w-39-gosaburi-galmae', 'base-w-41-hwanna-beodeul', 'base-w-79-yangmaek-solmae', 'base-w-46-geonma-maru', 'base-w-48-mujin-mudeung', 'base-w-80-usan-gangchi', 'base-w-81-byeokjin-byeolbit', 'beomi', 'danbi', 'dalli', 'gureum', 'haesol', 'soenun', 'eomni', 'mulbeom', 'mulsae', 'bakdal', 'darae', 'sori', 'base-w-12-court-dancer', 'hwalmi', 'gaennae', 'dokmudeom', 'base-w-14-feast-spy', 'base-w-25-bihwa-priestess', 'sincheongan', 'base-w-40-mujin-munui'])
+const PX_DUEL: ReadonlySet<string> = new Set(['beom', 'maehwa', 'base-w-31-dabeol-dalbit', 'haebi', 'areum', 'base-w-13-young-archer', 'base-w-10-pirate-captain', 'base-w-17-mahan-pearl-diver', 'base-w-06-buyeo-huntress', 'base-w-64-miri-dallae', 'ara', 'base-w-22-dongye-tiger-huntress', 'noeul', 'sagong', 'sinneoul', 'heo', 'base-w-08-mahan-warrior', 'base-w-23-usisan-whale-queen', 'base-w-26-iseo-tomboy-general', 'base-w-72-eumjeup-beol', 'tneoul', 'odi', 'base-w-76-gampyeong-baetsagong', 'base-w-34-chopal-deulme', 'base-w-102-garak-dana', 'base-w-36-baekje-maena', 'base-w-56-dongokjeo-sogeum', 'budeul', 'base-w-53-hwanna-gabi', 'base-w-18-jinhan-salt-widow', 'beombal', 'irang', 'sogeumbi', 'baram', 'byeol', 'base-w-71-yeonna-neoul', 'base-w-39-gosaburi-galmae', 'base-w-41-hwanna-beodeul', 'base-w-79-yangmaek-solmae', 'base-w-46-geonma-maru', 'base-w-48-mujin-mudeung', 'base-w-80-usan-gangchi', 'base-w-81-byeokjin-byeolbit', 'beomi', 'danbi', 'dalli', 'gureum', 'haesol', 'soenun', 'eomni', 'mulbeom', 'mulsae', 'bakdal', 'darae', 'sori', 'base-w-12-court-dancer', 'hwalmi', 'gaennae', 'dokmudeom', 'base-w-14-feast-spy', 'base-w-25-bihwa-priestess', 'sincheongan', 'base-w-40-mujin-munui', 'halla'])
 /** 띠 그림 — 기본은 anim-px(도트 규격) 먼저, 없으면 옛 띠로 (img 의 onerror 가 갈아 끼운다) */
 const strip = (s: string): HTMLImageElement => pxMode
   ? DUEL_ATLASES[s] !== undefined && !PX_DUEL.has(s) ? img(`realm/duel/sprites/gen-${s}.png`, `realm/anim-px/gen-${s}.png`)

diff --git a/src/tune/params.ts b/src/tune/params.ts
@@ -1509,6 +1509,7 @@ export const HAEBI_IDLE = {
     'base-w-25-bihwa-priestess': { cells: 38, base: [0, 1], hold: 2.4, fall: [18, 20, 21, 19], quirk: [22, 23, 24, 25], quirkTimes: [.28, .3, .3, .25], attack: { cells: [26, 27, 28, 29, 30, 31, 32, 33], times: [.09, .08, .30, .05, .15, .07, .08, .12], hit: 4 }, hurt: [34, 35], rise: [36, 37], xGeom: { h: 224, root: 92, foot: 216 } },
     sincheongan: { cells: 38, base: [0, 1], hold: 2.4, fall: [18, 20, 21, 19], quirk: [22, 23, 24, 25], quirkTimes: [.28, .3, .3, .25], attack: { cells: [26, 27, 28, 29, 30, 31, 32, 33], times: [.09, .08, .30, .05, .15, .07, .08, .12], hit: 4 }, hurt: [34, 35], rise: [36, 37], xGeom: { h: 224, root: 92, foot: 216 } },
     'base-w-40-mujin-munui': { cells: 38, base: [0, 1], hold: 2.4, fall: [18, 20, 21, 19], quirk: [22, 23, 24, 25], quirkTimes: [.28, .3, .3, .25], attack: { cells: [26, 27, 28, 29, 30, 31, 32, 33], times: [.09, .08, .30, .05, .15, .07, .08, .12], hit: 4 }, hurt: [34, 35], rise: [36, 37], xGeom: { h: 224, root: 92, foot: 216 } },
+    halla: { cells: 38, base: [0, 1], hold: 2.4, fall: [18, 20, 21, 19], quirk: [22, 23, 24, 25], quirkTimes: [.28, .3, .3, .25], attack: { cells: [26, 27, 28, 29, 30, 31, 32, 33], times: [.09, .08, .30, .05, .15, .07, .08, .12], hit: 4 }, hurt: [34, 35], rise: [36, 37], xGeom: { h: 224, root: 92, foot: 216 } },
   },
 } as const
 export const HAEBI_ANIM = {

diff --git a/tools/sprite-kit/anim-harness.py b/tools/sprite-kit/anim-harness.py
@@ -105,6 +105,7 @@ HEROES = {
     'bihwa': dict(hit=True, strip='gen-base-w-25-bihwa-priestess', atk='cast', actw=264, atk8=True, act=True, legacy=(('a', 1), ('b', 3), ('b', 3), ('b', 4))),   # 비화 무녀(방울 지팡이 · 가슴 M) · 무녀 묶음(11-25 밤) · 시전 cast(방울 흔들고 손바닥 밀기)
     'sincheongan': dict(hit=True, strip='gen-sincheongan', atk='cast', actw=264, atk8=True, act=True, legacy=(('a', 1), ('b', 3), ('b', 3), ('b', 4))),   # 가락 신청간(방울 지팡이 · 가슴 M) · 무녀 묶음(11-25 밤) · 시전 cast(방울 흔들고 손바닥 밀기)
     'munui': dict(hit=True, strip='gen-base-w-40-mujin-munui', atk='cast', actw=264, atk8=True, act=True, legacy=(('a', 1), ('b', 3), ('b', 3), ('b', 4))),   # 무진 문의(방울 지팡이 · 가슴 M) · 무녀 묶음(11-25 밤) · 시전 cast(방울 흔들고 손바닥 밀기)
+    'halla': dict(hit=True, strip='gen-halla', atk='cast', actw=264, atk8=True, act=True, legacy=(('a', 1), ('b', 3), ('b', 3), ('b', 4))),   # 탐라 한라(갈고리 방울 지팡이 · 가슴 M) · 무녀 묶음(11-25 밤) · 시전 cast(방울 흔들고 손바닥 밀기)
     'haebi': dict(hit=True, strip='gen-haebi', atk='chop', atk8=True, act=True),   # act = 공격 여덟 칸이 넓은 동작 칸(240×224 · 뿌리 92 · 발 줄 216)
     'areum': dict(hit=True, strip='gen-areum', atk='slam', atk8=True, act=True, lock='none'),   # 받은 그림 그대로(얼굴을 떠다 붙이지 않는다 — 11-24: 뭉친 얼굴이 여덟 칸에 퍼졌다) · 옛 lock='face': 메가 머리 뒤로 지나간다 — 머리 상자는 메를 자르고(「포스터」), 윗몸을 통째로 묶으면 떠다닌다(11-24 형) → 얼굴 안쪽만 묶는다
 }

diff --git a/docs/realm/production/CLAUDE-HANDOFF-20261124.md b/docs/realm/production/CLAUDE-HANDOFF-20261124.md
@@ -266,3 +266,14 @@
 - **K7 · K8 · K9(Codex 걷기 다시) 결과**: 세 장수의 `STD/out-<이름>-walk8-k.png` 가 왔다. 띠 검사는 합격했으나 확대해 보니 **아랫줄(b) 윗몸이 윗줄(a)보다 뚜렷이 좁고 돌아서 있어**(갠내 · 독무덤 · 첩자 셋 모두 · Codex 도 독무덤에서 같은 걱정을 적었다) 다섯째 칸에서 윗몸이 튄다. 다리 교대도 이 판에서 확정되지 않았다(열1 위·아랫줄 다리 배치가 비슷). 그래서 **-k 판은 안 쓰고** 앞 판(API 다시 받은 걷기 · `-v2` 로 옮겨 둠)을 그대로 `out-<이름>-walk8.png` 로 두었다(윗몸은 여덟 칸 같음). 코디네이터 기준(같은 색 다리는 교대를 못 가려도 흠 아님)에 따라 세 장수도 띠 설치 · wire-hero · hit-install 까지 마쳤다. 남은 불확실: 이 셋의 같은 열 위·아랫줄 다리가 같은 배치로 보일 수 있다(게임 크기 GIF 로 직접 확인 못 함).
 - **11-25 첩자 볼 · 독무덤 걷기 · 갠내**: 형 「연회첩자 볼에 뭐 툭 튀어나와 있음」 → 서기 칸은 윤곽이 있는데 걷기·개성 칸(4~14·17)의 앞볼은 살색 화소가 윤곽 없이 배경에 닿아 있었다. Codex 부분 편집(D3 · 일곱 장)은 화소 불변을 못 지켜 안 썼고, `tools/sprite-kit/pixel-fix.py` + `pixel-fix.json`(칸 · x · y 목록 33개 · 윤곽색 11,7,10)로 게임 띠에 칠했다. **띠를 다시 굽거나 `strip install` 하면 `py -3 -X utf8 tools/sprite-kit/pixel-fix.py base-w-14-feast-spy` 를 다시 돌린다.** 독무덤 걷기는 Codex 새 판(D2 · k2)으로 교체(옛 판 `-v3`). 갠내는 D1(k2)이 아랫줄 윗몸이 달라 안 넣고 D4(아랫줄만 부분 편집)를 받는 중.
 - **11-25 갠내 걷기 넣음**: D4(k2 의 아랫줄 네 칸만 Codex 부분 편집 → `patch-merge.py cell … 5x2 at=1,1~4` 네 번 = `STD/out-gaennae-walk8-k3m.png`)로 아랫줄 윗몸·단검이 윗줄과 맞아 `out-gaennae-walk8.png` 로 두고 띠 설치(옛 판 `-v3` = 앞 판). 머리 꼭대기 윗줄 151 · 아랫줄 154~155 · 가슴 폭 107~115 대 103~106(k 때와 비슷하나 단검·치마가 맞음). 독립 검수: 새 판이 나음(칸 5~8 색이 조금 어두움).
+
+## 무녀 묶음(밤 · 11-25 새벽) — 방울 지팡이 무녀 넷
+형이 자는 동안 Claude 무녀 일꾼이 제작 · 검수 · 넣기까지 했다(형 눈은 대신 본 것이라 아침에 GIF 로 직접 보고 판정).
+- **인형**: `pose-rig.py` 에 지팡이(staff) 걷기(가까운 손이 몸 앞에서 지팡이 · 먼 팔만 흔듦) · 개성 `IK_QUIRKS['shake']`(방울 흔들기) · `scene-pack.py <이름> staff <결> e2 M`(걷기 · cast a·b · shake · hit_staff · 쓰러짐 장면). 기존 pole2·sword·dagger·bow·axe 인형 산출물은 바이트까지 같음(고치기 전·후 해시 견줌: tools/out/m/rigcmp.sh).
+- **넣은 장수**: 비화 무녀(w-25) · 가락 신청간 · 무진 문의 · 탐라 한라. 장수마다 커밋(b3999f70 · 7d26f056 · d368962c · 한라는 아래). 칸 38(본 20 + 쓰러짐 2 + 개성 4 + 시전 8 + 맞음 4) · 시전 times `.09,.08,.30,.05,.15,.07,.08,.12`(셋째 칸 모음 0.3초) · 타격 4 · 좁은 칸 시전은 `legacy=(a1,b3,b3,b4)`(a2~a4·b1 은 지팡이가 위로 넘쳐 잘림). params 의 hurt/rise 는 wire-hero `hit` 한 번만(hit-install 은 안 돌려 중복 없음).
+- **뺀 장수**: 고구려 귀부인(w-02) = 두 손에 쥔 공 모양 방울 막대(지팡이 길이 아님) · 유청간 = 방울 없는 갈고리 지팡이(방울 지팡이 아님) · 목지 진하 · 감문 감실 · 소서노 · 부채·향로·맨손 주술은 지시대로 안 함.
+- **주문 번호**: M1~M4 서기 · M5~M10 비화 · M11~M16 신청간 · M17~M22 문의 · M23~M28 한라 · M29 한라 서기 다시(지팡이가 먼 손에 있었다) · M30 비화 걷기 다시. 모두 NOW 맨 위에 넣었고 Codex 가 번호 순으로 받았다(서기 한 장 ~2분).
+- **검수 숫자**: 걷기 윗몸 흔들림 넷 모두 0px · 서기↔걷기 키 +1px(비화) · 띠 판정 합격(신청간·문의는 「경고: hit」= 맞음 끝 칸 윗몸이 서기보다 7%대 어긋남, 합격선 안). 독립 검수(sonnet) 넷 모두 「넣어도 됨」: 비화는 처음 「걷기가 같은 반 바퀴 · 치마가 뒤로만」 → M30 다시 받아 읽힘 개선. 한라는 걷기 칸 6 지팡이 아랫끝이 허공이라는 지적(걷는 지팡이가 서기보다 약 25px 떠 있음은 인형 설계 · 네 장수 공통). Claude API 검수는 매번 「19·20 칸 지팡이가 뒤로」「걷기 다리 반복」을 짚었으나 내가 확대해 본 바로는 19칸(타격)은 앞으로 기울고 20칸(뻗은 채)은 설계대로 뒤로 흔들림. 문의는 API 가 시전 지팡이를 1.4배로 짚었으나 잰 값은 약 1.05~1.1배.
+- **손본 것**: 신청간 걷기 칸(a-2)에 자홍 빛 7화소 → 둘레 중앙값으로 코드로 덮음(독립 검수가 짚음 · px 파일에서 직접 고쳤으니 걷기를 다시 굽으면 다시 고쳐야 함).
+- **한계(못 본 것)**: 긴 치마(비화·한라 일부)는 다리가 가려져 「위·아랫칸 앞다리가 다른 다리」를 색으로는 못 가린다 — 인형을 따랐다는 것과 신발·자락 모양이 달라 읽힌다는 것까지만. 게임 화면에서 실제 재생 · 시전 이펙트 위 모습 · 형이 눈으로 보는 걷기 느낌은 못 봤다. 신청간·문의 맞음·쓰러짐 얼굴 8~12배 확대는 일부만 봄.
+- **GIF(게임 크기 · 낱칸 판 함께)**: `tools/out/review/비화 무녀.gif` · `가락 신청간.gif` · `무진 문의.gif` · `탐라 한라.gif` (각 `-frames.png`). 칸 펼친 검수 판: `tools/out/m/board-<bihwa|sincheongan|munui|halla>.png`.
